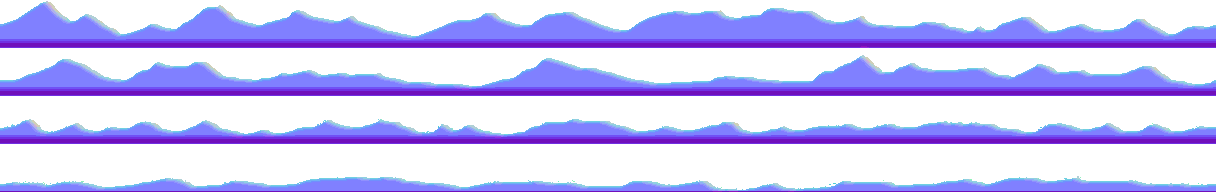
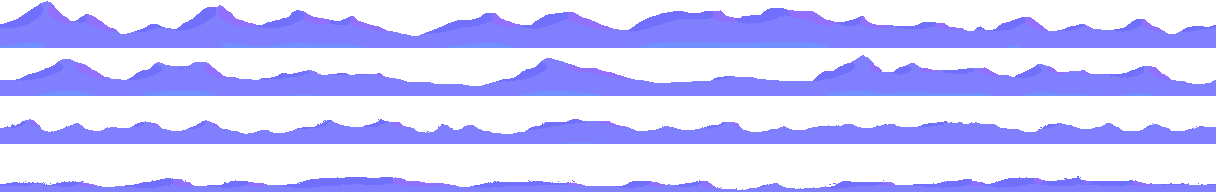
加宽远山法线过渡并新增烘焙技能
重烘焙 mountains_normal.png，扩大轮廓法线过渡带；新增 bake-pixel-normal 技能与 bake_normal.py 脚本，固化 normal.gpl 量化与 Godot CanvasTexture 接入约定。

diff --git a/.agents/skills/bake-pixel-normal/scripts/bake_normal.py b/.agents/skills/bake-pixel-normal/scripts/bake_normal.py
@@ -1,0 +1,114 @@
+#!/usr/bin/env python3
+"""从 diffuse PNG 烘焙像素法线贴图，颜色量化到 GIMP 调色板。"""
+from __future__ import annotations
+
+import argparse
+import math
+from pathlib import Path
+
+from PIL import Image, ImageFilter
+
+
+def load_gpl(path: Path) -> list[tuple[int, int, int, int]]:
+    colors: list[tuple[int, int, int, int]] = []
+    for line in path.read_text(encoding="utf-8").splitlines():
+        line = line.strip()
+        if not line or line.startswith("#") or line.startswith("GIMP") or line.startswith("Channels"):
+            continue
+        parts = line.split()
+        if len(parts) < 4:
+            continue
+        colors.append(tuple(map(int, parts[:4])))
+    if not colors:
+        raise ValueError(f"调色板为空: {path}")
+    return colors
+
+
+def pick_flat_colors(palette: list[tuple[int, int, int, int]]) -> tuple[tuple[int, int, int, int], tuple[int, int, int, int]]:
+    opaque = next((c for c in palette if c[:3] == (128, 128, 255) and c[3] == 255), None)
+    transparent = next((c for c in palette if c[:3] == (128, 128, 255) and c[3] == 0), None)
+    if opaque is None:
+        opaque = next(c for c in palette if c[3] == 255)
+    if transparent is None:
+        transparent = opaque
+    return opaque, transparent
+
+
+def nearest_palette(rgb: tuple[int, int, int], palette: list[tuple[int, int, int, int]]) -> tuple[int, int, int, int]:
+    best = palette[0]
+    best_d = 1 << 30
+    for c in palette:
+        d = (c[0] - rgb[0]) ** 2 + (c[1] - rgb[1]) ** 2 + (c[2] - rgb[2]) ** 2
+        if d < best_d:
+            best_d = d
+            best = c
+    return best
+
+
+def sample_height(height: Image.Image, x: int, y: int) -> float:
+    w, h = height.size
+    x = max(0, min(w - 1, x))
+    y = max(0, min(h - 1, y))
+    return height.getpixel((x, y)) / 255.0
+
+
+def bake(
+    diffuse_path: Path,
+    output_path: Path,
+    gpl_path: Path,
+    blur_radius: float,
+    sample_span: int,
+    strength: float,
+) -> None:
+    palette = load_gpl(gpl_path)
+    flat_opaque, flat_transparent = pick_flat_colors(palette)
+
+    img = Image.open(diffuse_path).convert("RGBA")
+    w, h = img.size
+    alpha = img.split()[3]
+    height = alpha.filter(ImageFilter.GaussianBlur(blur_radius))
+    px = img.load()
+
+    normal = Image.new("RGBA", (w, h), flat_transparent)
+    npx = normal.load()
+
+    for y in range(h):
+        for x in range(w):
+            if px[x, y][3] == 0:
+                continue
+            h_l = sample_height(height, x - sample_span, y)
+            h_r = sample_height(height, x + sample_span, y)
+            h_u = sample_height(height, x, y - sample_span)
+            h_d = sample_height(height, x, y + sample_span)
+            dx = (h_l - h_r) / (2.0 * sample_span) * strength
+            dy = (h_u - h_d) / (2.0 * sample_span) * strength
+            nz = 1.0
+            length = math.sqrt(dx * dx + dy * dy + nz * nz)
+            nx, ny, nz = dx / length, dy / length, nz / length
+            rgb = (
+                int((nx * 0.5 + 0.5) * 255),
+                int((ny * 0.5 + 0.5) * 255),
+                int((nz * 0.5 + 0.5) * 255),
+            )
+            c = nearest_palette(rgb, palette)
+            npx[x, y] = c if c[3] else flat_opaque
+
+    output_path.parent.mkdir(parents=True, exist_ok=True)
+    normal.save(output_path)
+    print(f"baked {w}x{h} -> {output_path} (blur={blur_radius}, span={sample_span}, strength={strength})")
+
+
+def main() -> None:
+    parser = argparse.ArgumentParser(description="烘焙像素法线贴图")
+    parser.add_argument("diffuse", type=Path, help="diffuse PNG 路径")
+    parser.add_argument("-o", "--output", type=Path, required=True, help="输出法线 PNG 路径")
+    parser.add_argument("-p", "--palette", type=Path, default=Path("normal.gpl"), help="GIMP 调色板路径")
+    parser.add_argument("-b", "--blur", type=float, default=10.0, help="高度场高斯模糊半径")
+    parser.add_argument("-s", "--span", type=int, default=6, help="梯度采样跨度（像素）")
+    parser.add_argument("--strength", type=float, default=4.0, help="坡度强度倍率")
+    args = parser.parse_args()
+    bake(args.diffuse, args.output, args.palette, args.blur, args.span, args.strength)
+
+
+if __name__ == "__main__":
+    main()

diff --git a/.agents/skills/bake-pixel-normal/SKILL.md b/.agents/skills/bake-pixel-normal/SKILL.md
@@ -1,0 +1,72 @@
+---
+name: bake-pixel-normal
+description: 从像素 diffuse 贴图烘焙 2D 法线贴图，颜色仅使用 GIMP 调色板（如 normal.gpl）中的条目。用于用户要求烘焙/重烘焙法线贴图、扩大法线过渡范围、或处理山体/剪影类 CanvasTexture 资产时。
+---
+
+# 烘焙像素法线贴图
+
+## 何时使用
+
+- 用户修改了 diffuse 图，需要同步法线贴图
+- 需要从剪影/alpha 轮廓生成 Godot 2D 光照用的法线
+- 用户要求法线颜色限制在 `normal.gpl` 调色板内
+- 用户要求调整法线过渡宽度（更宽/更窄的坡面）
+
+## 快速执行
+
+```bash
+python .agents/skills/bake-pixel-normal/scripts/bake_normal.py \
+  game/terrain/mountains.png \
+  -o game/terrain/mountains_normal.png \
+  -p normal.gpl
+```
+
+依赖：`pillow`（`pip install pillow`）
+
+## 算法
+
+1. 用 diffuse 的 **alpha 通道** 作为高度场（不透明=高，透明=低）
+2. 对高度场做 **高斯模糊**，控制过渡带宽度
+3. 在模糊后的高度场上按 **采样跨度** 求梯度，得到法线向量
+4. 将 RGB 量化到调色板最近色；透明像素用 `(128,128,255,0)`，实体内部平面用 `(128,128,255,255)`
+
+## 参数调优
+
+| 参数 | 默认 | 效果 |
+|------|------|------|
+| `--blur` | 10 | 越大，轮廓法线过渡带越宽 |
+| `--span` | 6 | 梯度采样距离，配合 blur 控制坡度平滑度 |
+| `--strength` | 4.0 | 坡度强度；过大易饱和到调色板极端色 |
+
+用户说「过渡太窄」→ 增大 `--blur` 和/或 `--span`。  
+用户说「过渡太宽/太软」→ 减小二者。
+
+## Godot 接入要点
+
+`CanvasTexture` 的 `diffuse_texture` / `normal_texture` **不要**嵌套 `AtlasTexture`，否则 2D 光照会丢 diffuse 发白。
+
+正确做法（本项目惯例）：
+
+```text
+CanvasTexture → 整张贴图 + 整张贴图法线
+Sprite2D.region_enabled = true
+Sprite2D.region_rect = 对应行 Rect2
+```
+
+参考：`game/terrain/terrain.tscn` 中 `CanvasTexture_mountains` + `Sprite2D1`–`Sprite2D4`。
+
+## 工作流
+
+```
+任务进度：
+- [ ] 确认 diffuse 已保存
+- [ ] 运行 bake_normal.py
+- [ ] 若场景 region_rect 与图集行高不一致，同步 terrain.tscn
+- [ ] Godot 重开或重新导入贴图验证光照
+```
+
+## 图集约定（本项目远山）
+
+- 每行高度 48px，山体向下对齐
+- 四行共用 `mountains.png` + `mountains_normal.png`
+- 各行 `region_rect.y` 依次为 0、48、96、144
